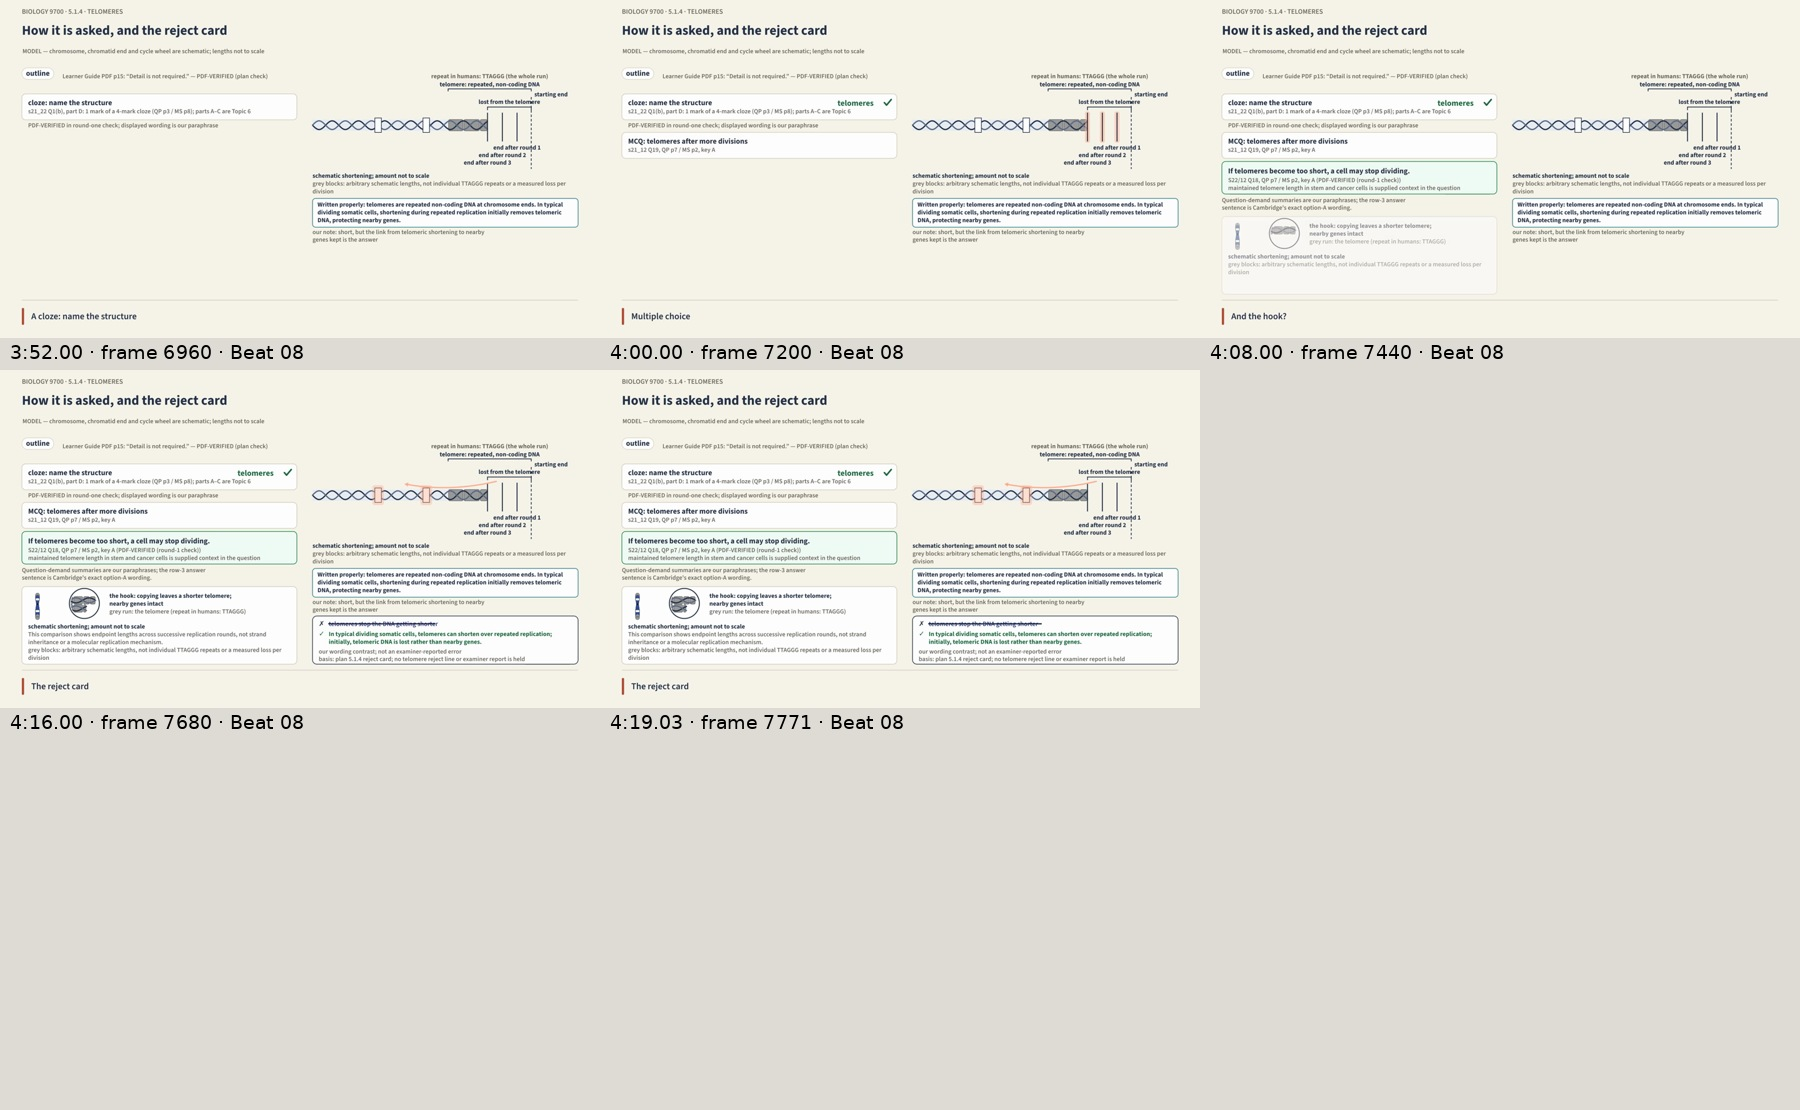
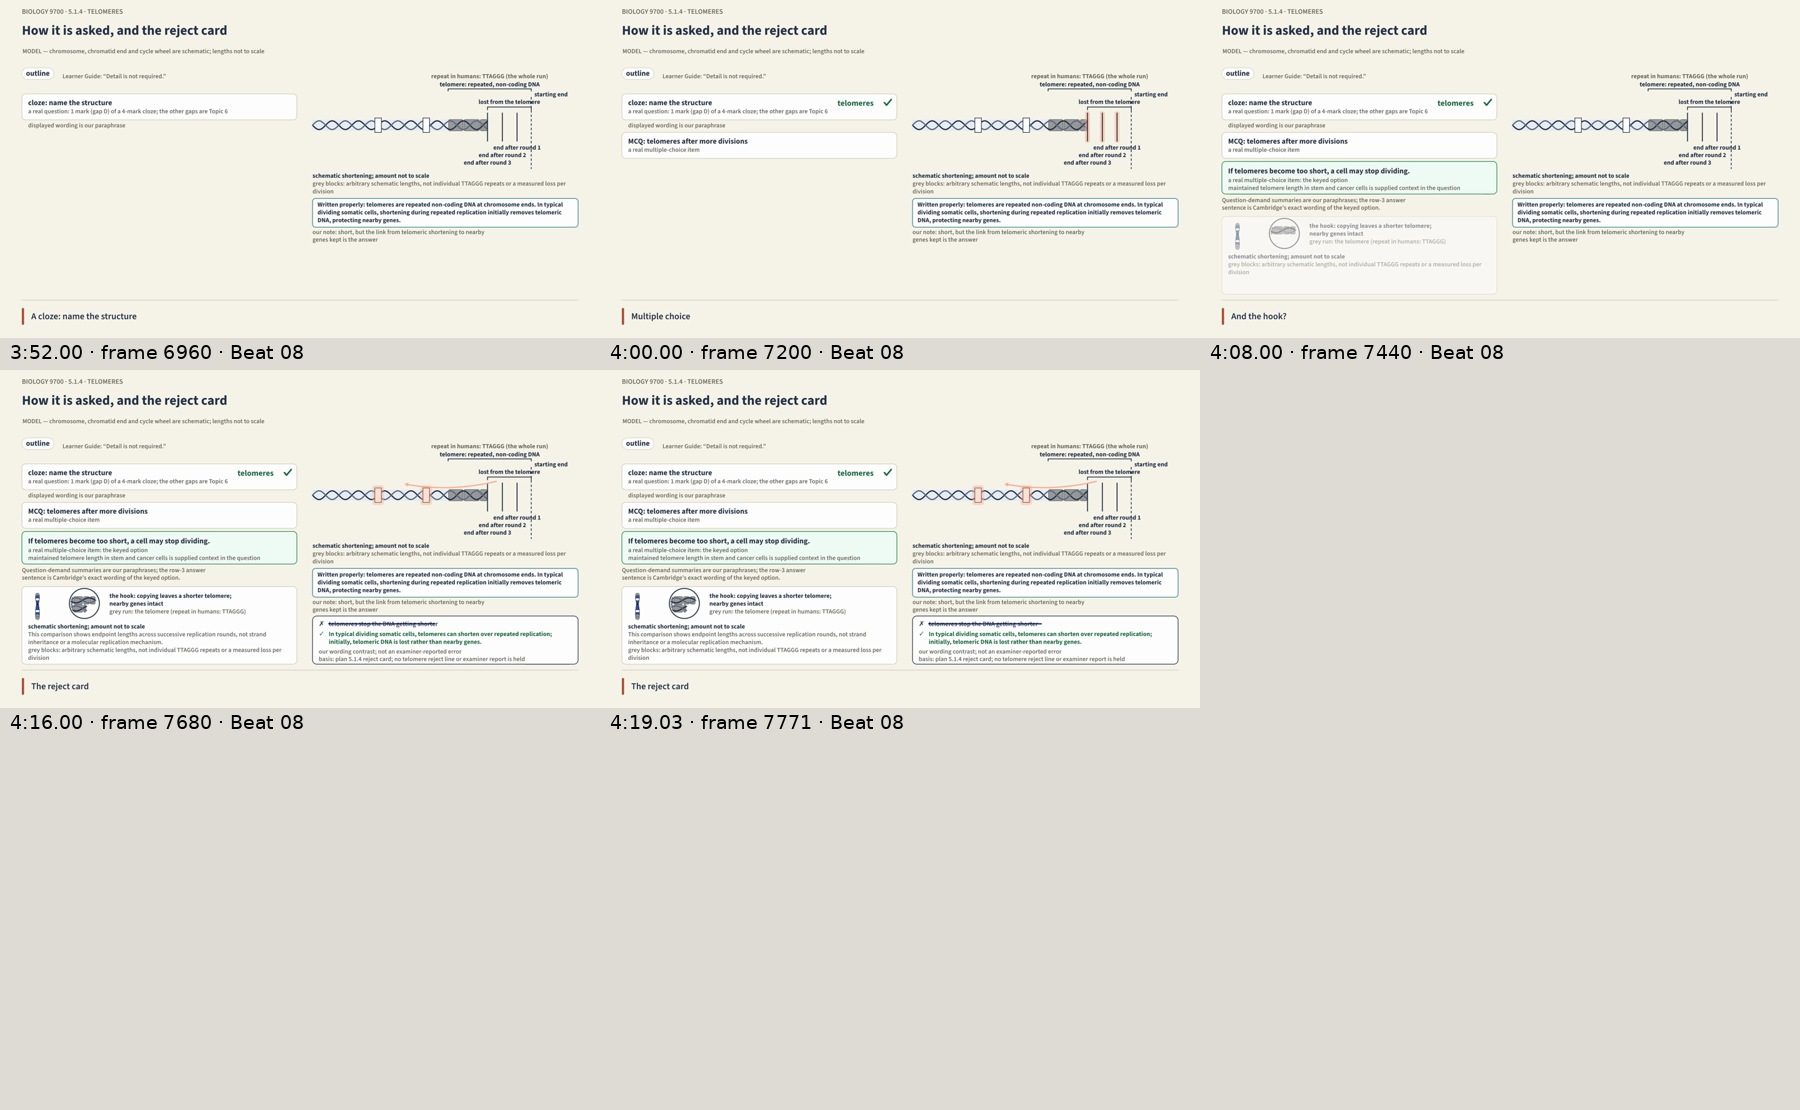
009g: 5.1.4 v3 — B6 transition collisions fixed, every-frame audit, no on-screen paper refs; Bunny status 4
Claude-Session: https://claude.ai/code/session_013gcwrjhmLRoZWGqaDpU7F1

diff --git a/work/5.1.4/src/beats/Beat08.tsx b/work/5.1.4/src/beats/Beat08.tsx
@@ -17,9 +17,9 @@ export default function Beat08(s: any) {
   const P = {...TP, x: 1000, len: 700, y: 400, amp: 14, copyGap: 50};
   const g = telGeom(P);
   const FX = 70, FW = 880;
-  const r1 = 's21_22 Q1(b), part D: 1 mark of a 4-mark cloze (QP p3 / MS p8); parts A–C are Topic 6';
-  const r2 = 's21_12 Q19, QP p7 / MS p2, key A';
-  const r3 = 'S22/12 Q18, QP p7 / MS p2, key A (PDF-VERIFIED (round-1 check))';
+  const r1 = 'a real question: 1 mark (gap D) of a 4-mark cloze; the other gaps are Topic 6';
+  const r2 = 'a real multiple-choice item';
+  const r3 = 'a real multiple-choice item: the keyed option';
   let y = 300;
   const y1 = y; y += formRowH(r1, FW) + 40;
   const y2 = y; y += formRowH(r2, FW) + 10;
@@ -46,9 +46,9 @@ export default function Beat08(s: any) {
         <Txt x={1000} y={772} size={20} weight={600} fill={C.muted} italic>genes kept is the answer</Txt>
       </g>}
       <Tag x={FX} y={242} text="outline" size={24} opacity={fi(a('outline'), 0.4)} />
-      <Txt x={FX + 130} y={250} size={20} weight={600} fill={C.muted} italic opacity={fi(a('outline'), 0.4)}>Learner Guide PDF p15: “Detail is not required.” — PDF-VERIFIED (plan check)</Txt>
+      <Txt x={FX + 130} y={250} size={20} weight={600} fill={C.muted} italic opacity={fi(a('outline'), 0.4)}>Learner Guide: “Detail is not required.”</Txt>
       <FormRow x={FX} y={y1} w={FW} title="cloze: name the structure" cite={r1} a={a('row1')} />
-      <Txt x={FX + 20} y={y1 + formRowH(r1, FW) + 24} size={20} weight={600} fill={C.muted} italic opacity={fi(a('rep'), 0.4)}>PDF-VERIFIED in round-one check; displayed wording is our paraphrase</Txt>
+      <Txt x={FX + 20} y={y1 + formRowH(r1, FW) + 24} size={20} weight={600} fill={C.muted} italic opacity={fi(a('rep'), 0.4)}>displayed wording is our paraphrase</Txt>
       {a('ans') >= 0 && <g opacity={fi(a('ans'), 0.4)}><Txt x={FX + FW - 190} y={y1 + 38} size={26} weight={800} fill={GOOD}>telomeres</Txt><Tick x={FX + FW - 30} y={y1 + 28} p={fe(a('ans'), 0.5)} /></g>}
       <FormRow x={FX} y={y2} w={FW} title="MCQ: telomeres after more divisions" cite={r2} a={a('row2')} />
       <g opacity={fi(a('row3'), 0.4)}>
@@ -58,7 +58,7 @@ export default function Beat08(s: any) {
         <Txt x={FX + 20} y={y3 + 91} size={20} weight={600} fill={C.muted} italic>maintained telomere length in stem and cancer cells is supplied context in the question</Txt>
       </g>
       <Txt x={FX} y={y3 + 130} size={20} weight={600} fill={C.muted} italic opacity={fi(a('row3'), 0.4)}>Question-demand summaries are our paraphrases; the row-3 answer</Txt>
-      <Txt x={FX} y={y3 + 154} size={20} weight={600} fill={C.muted} italic opacity={fi(a('row3'), 0.4)}>sentence is Cambridge's exact option-A wording.</Txt>
+      <Txt x={FX} y={y3 + 154} size={20} weight={600} fill={C.muted} italic opacity={fi(a('row3'), 0.4)}>sentence is Cambridge's exact wording of the keyed option.</Txt>
       {hook > 0 && <g opacity={hook < 1 ? hook : undefined}>
         {/* run 009f: the hook replay carries the model's notes (endpoint comparison while copying, block note, whole-run TTAGGG) */}
         <rect data-role="decor" x={FX} y={HY} width={FW} height={940 - HY} rx={12} fill="#FFFFFF" stroke="#D6CEBD" strokeWidth={2} />

diff --git a/work/5.1.4/src/beats/Beat06.tsx b/work/5.1.4/src/beats/Beat06.tsx
@@ -29,7 +29,11 @@ export default function Beat06(s: any) {
   }
   const telo = 1 - fe(a('away'), 1.5);
   const g = telGeom(TP);
-  const handle = fi(a('handle'), 0.4), hsmall = fe(a('protect'), 0.8);
+  // run 009g: outgoing text is gone before incoming text takes its place — the handle inset fades out over 0.4 s from
+  // 'protect', and only then does the note fade in (they share a baseline); the thought-experiment frame waits for the
+  // set-aside molecule's labels (gone by aside 0.05, ~0.16 s) before it appears.
+  const handle = fi(a('handle'), 0.4), hsmall = fe(a('protect'), 0.4), hnote = fe(a('protect') - 0.45, 0.4);
+  const teIn = fi(a('thought') - 0.25, 0.3) * (1 - fi(a('back'), 0.3));   // and leaves as the molecule starts back
   const typedS = a('written') < 0 ? '' : a('s1') < 0 ? typed('Written properly:', a('written') - 0.5, 30) : a('s2') < 0 ? typed(S1, a('s1') + 0.6, 20) : S1 + (a('protect') >= 1.2 ? S2 : typed(S2, a('s2'), (S2.length) / (at('protect') + 1.2 - at('s2'))));
   const sy = 700, sw = 1300, sx = 210;   // run 009f: narrower, so the handle inset sits beside it
   const tickHi = [0, 1, 2].map((i) => pulse(a('ticks') - i * 0.5, 0.9));
@@ -44,7 +48,7 @@ export default function Beat06(s: any) {
   const ROWS: any[] = [['buffer', 'the telomere: the repeated DNA at the tip', hBuf, 'lbuf'], ['track', 'the nearby genes', hTrack, 'ltrack'], ['the buffer takes the loss first', 'the track (the genes) stays intact', Math.max(hLoss, lit('lintact', null)), 'lloss']];
   return (
     <g>
-      {TE && <g>
+      {TE && teIn > 0 && <g opacity={teIn < 1 ? teIn : undefined}>
         <rect data-role="decor" x={120} y={330} width={1700} height={330} rx={16} fill="none" stroke={T5.ring} strokeWidth={4} strokeDasharray="14 10" />
         <Txt x={970} y={362} size={24} weight={800} fill={T5.ringHalo} anchor="middle">thought experiment — not a real chromosome</Txt>
         <TelomereEndModel {...TP} end={end} telo={telo} grow={grow} stop={stop} swap={swap} />
@@ -84,8 +88,8 @@ export default function Beat06(s: any) {
           <Txt x={1560} y={792} size={20} weight={700} fill={T5.ringHalo}>track</Txt>
           <Txt x={1812} y={684} size={20} weight={700} fill={T5.ringHalo} anchor="end">buffer</Txt>
         </g>}
-        <Txt x={1540} y={660} size={20} weight={600} fill={C.muted} italic opacity={hsmall}>the handle is not</Txt>
-        <Txt x={1540} y={684} size={20} weight={600} fill={C.muted} italic opacity={hsmall}>the exam answer</Txt>
+        <Txt x={1540} y={660} size={20} weight={600} fill={C.muted} italic opacity={hnote}>the handle is not</Txt>
+        <Txt x={1540} y={684} size={20} weight={600} fill={C.muted} italic opacity={hnote}>the exam answer</Txt>
       </g>}
       {cardO > 0 && <g opacity={cardO < 1 ? cardO : undefined}>
         <rect data-role="decor" x={210} y={660} width={1300} height={196} rx={14} fill="#FFFFFF" stroke={T5.ringHalo} strokeWidth={2} />

diff --git a/work/5.1.4/REPORT-v2.md b/work/5.1.4/REPORT-v2.md
@@ -1,34 +1,3 @@
-# 5.1.4 Telomeres: why copying costs telomere, not genes — REPORT **v3** (cloud run 009g fix pass)
-
-**Model:** claude-opus-5-5 · branch `cloud/009g-fix-3a72s8` (from `cloud/009f-fix-4t1jp6`) · 27 Sep 2026 (UTC) · v2 report: `REPORT-v2.md` (unchanged below)
-**Bunny v3 (review):** guid `2fddf183-8e38-4da9-9221-d556db7119fd`, title "REVIEW 5.1.4 v3 Telomeres: why copying costs telomere, not genes", no collection; uploaded 2026-09-27T16:52:46Z; **status 4 at 2026-09-27T16:54:48Z** (≈2 min); 240p–1080p, length 270 s. v1/v2 guids untouched.
-
-## Review findings (5.1.4-V2-REVIEW, CHANGES) → fixes (`src/beats/Beat06.tsx`)
-| Finding | Fix |
-|---|---|
-| P2 02:22.1 (f4113): set-aside molecule's "telomere: repeated, non-coding DNA" label crosses "thought experiment — not a real chromosome" | The thought-experiment frame (heading, model, counter, captions) fades in only from `thought` + 0.25 s, after the set-aside molecule's labels are gone (they leave by aside 0.05 ≈ 0.16 s), and fades out as the molecule starts back (`back`, 0.3 s) — the every-frame audit also caught this reverse transition at f4619, now clean. |
-| P2 03:13.3 (f5648–5652): "handle" and "the exam answer" superimposed | Handle inset fades OUT over 0.4 s from `protect`; the note "the handle is not / the exam answer" fades in only from `protect` + 0.45 s. |
-| Sampled audit | `verify-label-size.cjs` checks EVERY frame (7,772), text visible from opacity > 0.02: **min 17.01 px, 0 failures, 0 overlaps**. |
-| NEW rule: exam questions in our own words | B8 forms: "a real question: 1 mark (gap D) of a 4-mark cloze; the other gaps are Topic 6", "a real multiple-choice item", "a real multiple-choice item: the keyed option", "Learner Guide: “Detail is not required.”", "displayed wording is our paraphrase", "…Cambridge's exact wording of the keyed option." — all paper codes/pages/PDF-VERIFIED tags gone. Captions had none; narration unchanged. |
-
-## Phases (UTC)
-fixes + audit 16:25–16:32 · render 8 beats 16:38–16:41 · finish/verify 16:41–16:44 · bookends 16:42–16:47 · branding 16:48–16:51 · sheets 16:53 · upload 16:52 → status 4 16:54:48.
-
-## Master / branded (v3)
[2 lines of base64/hex data omitted]
-
-## Verification (master) — all PASS
-1 ffprobe 259.067 · 2 video ≥ audio · 3 decode clean · 4 cues 81/81 · 5 AAC packets identical (12,098) · 6 final word headroom 3.16 s · 7 holds −91 dB (B6 hook 2 s before "Written properly", B8 END) · 8 boundary holds 0 · marker audit: no error beat, 7,772 frames unmarked · label size/overlap every frame PASS · text-only controls PASS, longest text-only 0.5 s, 0 untagged.
-
-## Count audit
-No chromosome/DNA counter in this lesson. Round counter changes on the round-start frames f3227 / f3500 / f3688 (unchanged timeline and B5 source).
-
-## Sheets
-B6/B8 stills and transition frames (f4108–4135, f5648–5670) and the 5 encoded sheets looked at: no defect. Shared models unchanged (byte-identical to `work/t5-shared`). Images: none.
-
----
-
 # 5.1.4 Telomeres: why copying costs telomere, not genes — REPORT **v2** (cloud run 009f fix pass)
 
 **Model:** claude-opus-5-5 · branch `cloud/009f-fix-4t1jp6` (from `cloud/009-5.1.1-to-5.1.4-qls6vy`) · 27 Sep 2026 (UTC) · v1 report: `REPORT-v1.md`

diff --git a/work/5.1.4/PROGRESS.md b/work/5.1.4/PROGRESS.md
@@ -1,5 +1,7 @@
 # 5.1.4 Telomeres: why copying costs telomere, not genes · BUILD PROGRESS (handover)
 
+**v3 (run 009g, 27 Sep, branch `cloud/009g-fix-3a72s8`): DONE — B6 transition collisions fixed, every-frame audit, on-screen paper references removed; "REVIEW 5.1.4 v3 …" at Bunny status 4 (guid 2fddf183-…); see REPORT.md.**
+
 **v2 (run 009f, 27 Sep, branch `cloud/009f-fix-4t1jp6`): DONE** — review fixes applied (B2 overlap, persistent schematic
 captions on every model use, all text >= 17 px after branding, buffer memory hook re-voiced with paired highlights and a
 2 s hold, delivered video >= audio), 8/8 beats re-rendered and approved, verified (`qa/verification.json`,
